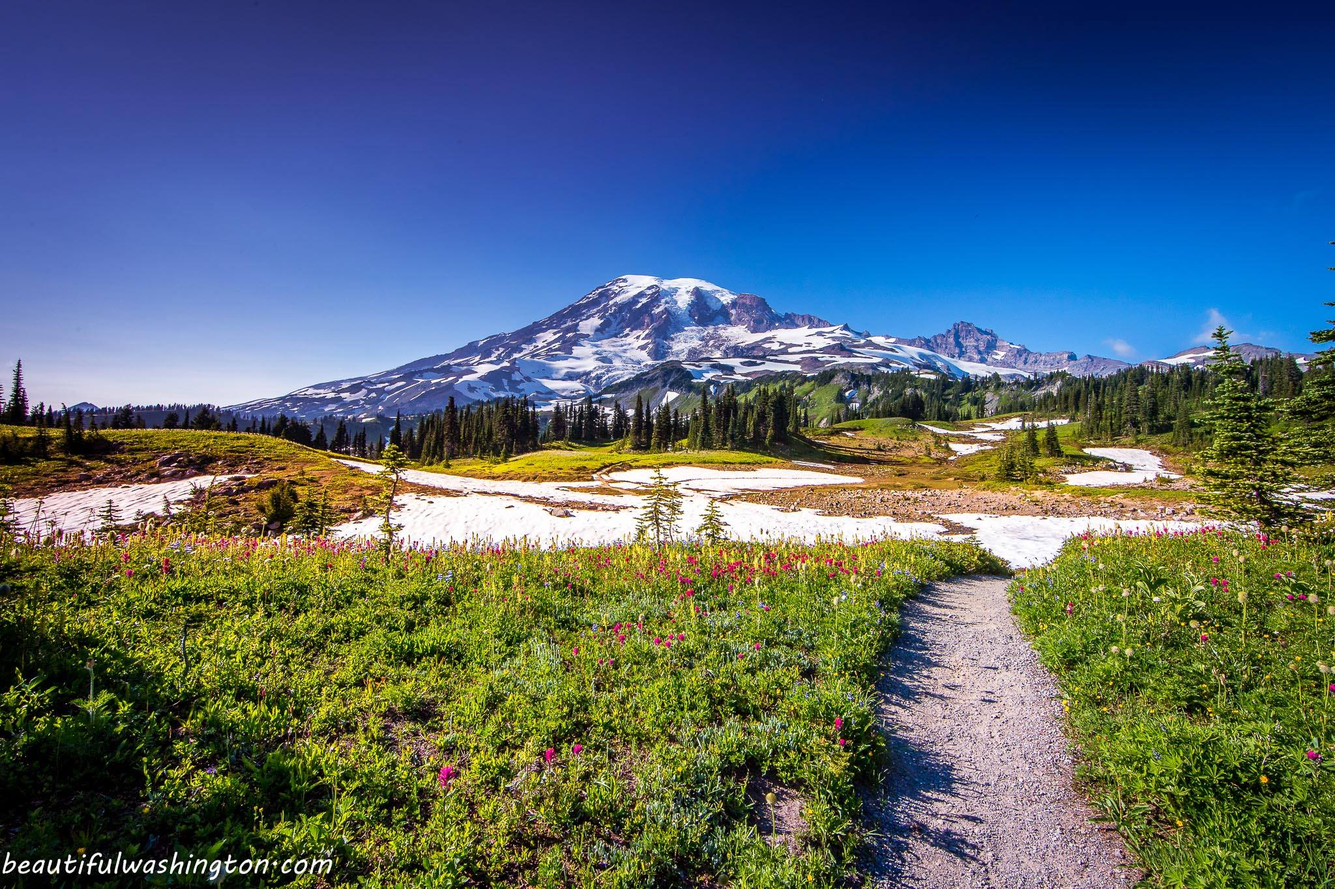
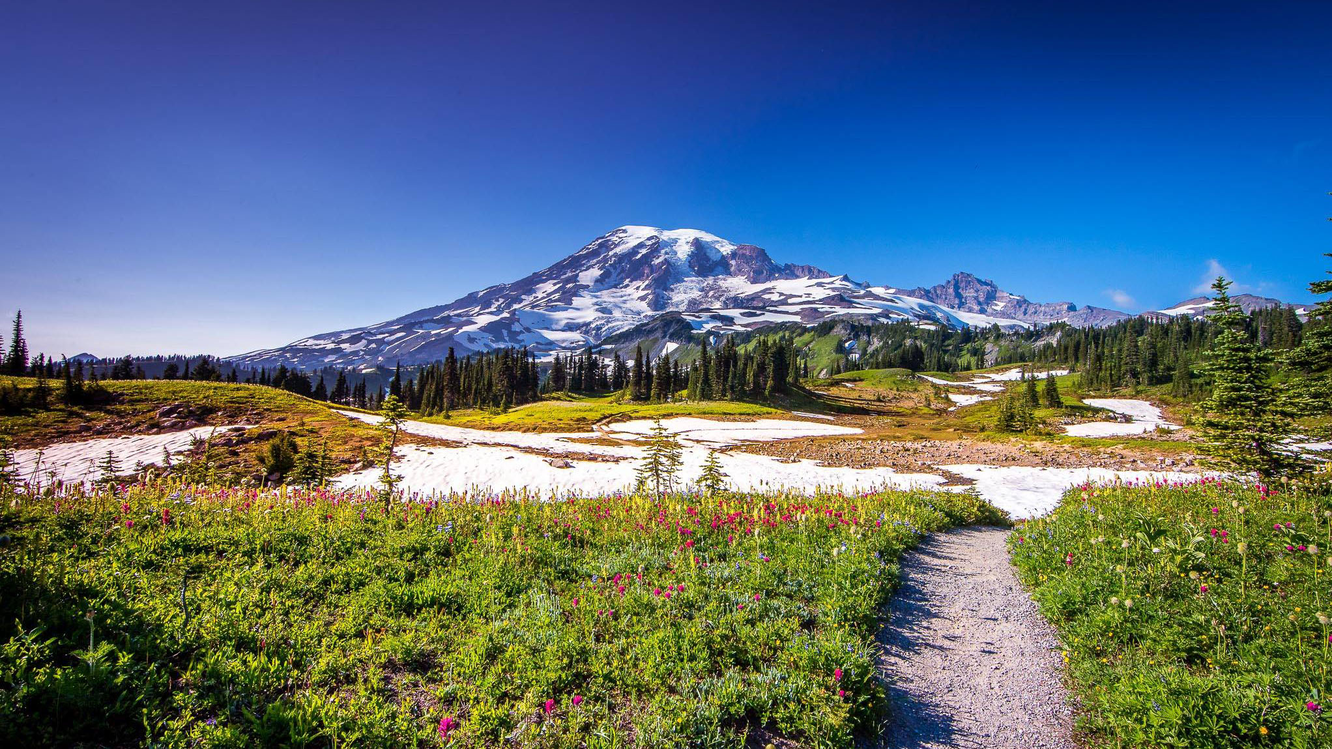
crop background, edit userprofile view

diff --git a/client/app/index.html b/client/app/index.html
@@ -21,11 +21,11 @@
 	</header>
 
 	<section id="pagewrap">
-		<div data-ng-controller="AuthController as globalAuth" data-ng-init="globalAuth.getEmail()">
+		<!-- <div data-ng-controller="AuthController as globalAuth" data-ng-init="globalAuth.getEmail()">
 			<p data-ng-if="globalAuth.email">Hello: {{globalAuth.email}} <a href data-ng-click="globalAuth.logout()">Logout</a></p>
 			<main data-ng-view>
 			</main>
-		</div>
+		</div> -->
 	<div>
 		<div class="forecast-list" data-ng-controller="TrailsController as trailsctrl">
 			<main-widget data-trail="trail">
@@ -38,16 +38,12 @@
 		<div googlemapsdirective></div>
 	</div>
 
-	<!-- <section id="favorite">
-	    <h2>FAVORITE TRAILS</h2>
-	    <div class="trail-list" data-ng-controller="TrailsController as trailsctrl" data-ng-init="trailsctrl.getAll()">
-	    <default-trail-list-item data-ng-repeat="trail in trailsctrl.trails" data-trail="trail">
-	    <li>{{trail.trailName}} | {{trail.length}} miles | rating: {{trail.difficulty}}</li>
-	    </div>
-	  </section> -->
+	<div data-ng-controller="UserprofileController as userprofilectrl">
+		<div userprofileListItem></div>
+	</div>
 
 	<aside id="all-trails">
-		<h2>ALL TRAILS</h2>
+		<h2>FAIR WEATHER TRAILS</h2>
 		<div class="trail-list" data-ng-controller="TrailsController as trailsctrl" data-ng-init="trailsctrl.getAll()">
 			<default-trail-list-item data-ng-repeat="trail in trailsctrl.trails" data-trail="trail">
 				<li>

diff --git a/client/app/templates/userprofile/views/userprofile_view.html b/client/app/templates/userprofile/views/userprofile_view.html
@@ -1,14 +1,12 @@
 <section data-ng-init="globalAuth.getEmail()">
-  <div class="trail-list" data-ng-controller="TrailsController as trailsctrl" data-ng-init="trailsctrl.getAll()">
-    <userprofile-trail-list-item data-ng-repeat="trail in trailsctrl.trails" data-trail="trail">
-    <li>{{trail.trailName}} || {{trail.distance}} || rating: {{trail.difficulty}} || <button class="fave-button" data-ng-click="addFavorite">Add to Faves</button></li>
-  </div>
-</section>
-
-<section id="favorite">
-  <h2>FAVORITE TRAILS</h2>
-  <div class="trail-list" data-ng-controller="TrailsController as trailsctrl" data-ng-init="trailsctrl.getAll()">
-  <default-trail-list-item data-ng-repeat="trail in trailsctrl.trails" data-trail="trail">
-  <li>{{trail.trailName}} | {{trail.distance}} miles | rating: {{trail.difficulty}}</li>
+  <div data-ng-controller="TrailsController as trailsctrl">
+    <userprofile-list-item>
+    <h4>Your Favorite Hikes</h4>
+    <ul>
+      <li>Annette Lake</li>
+      <li>Wallace Falls</li>
+      <li>Rattlesnake Ledge</li>
+      <li>Hurricane Ridge</li>
+    </ul>
   </div>
 </section>
